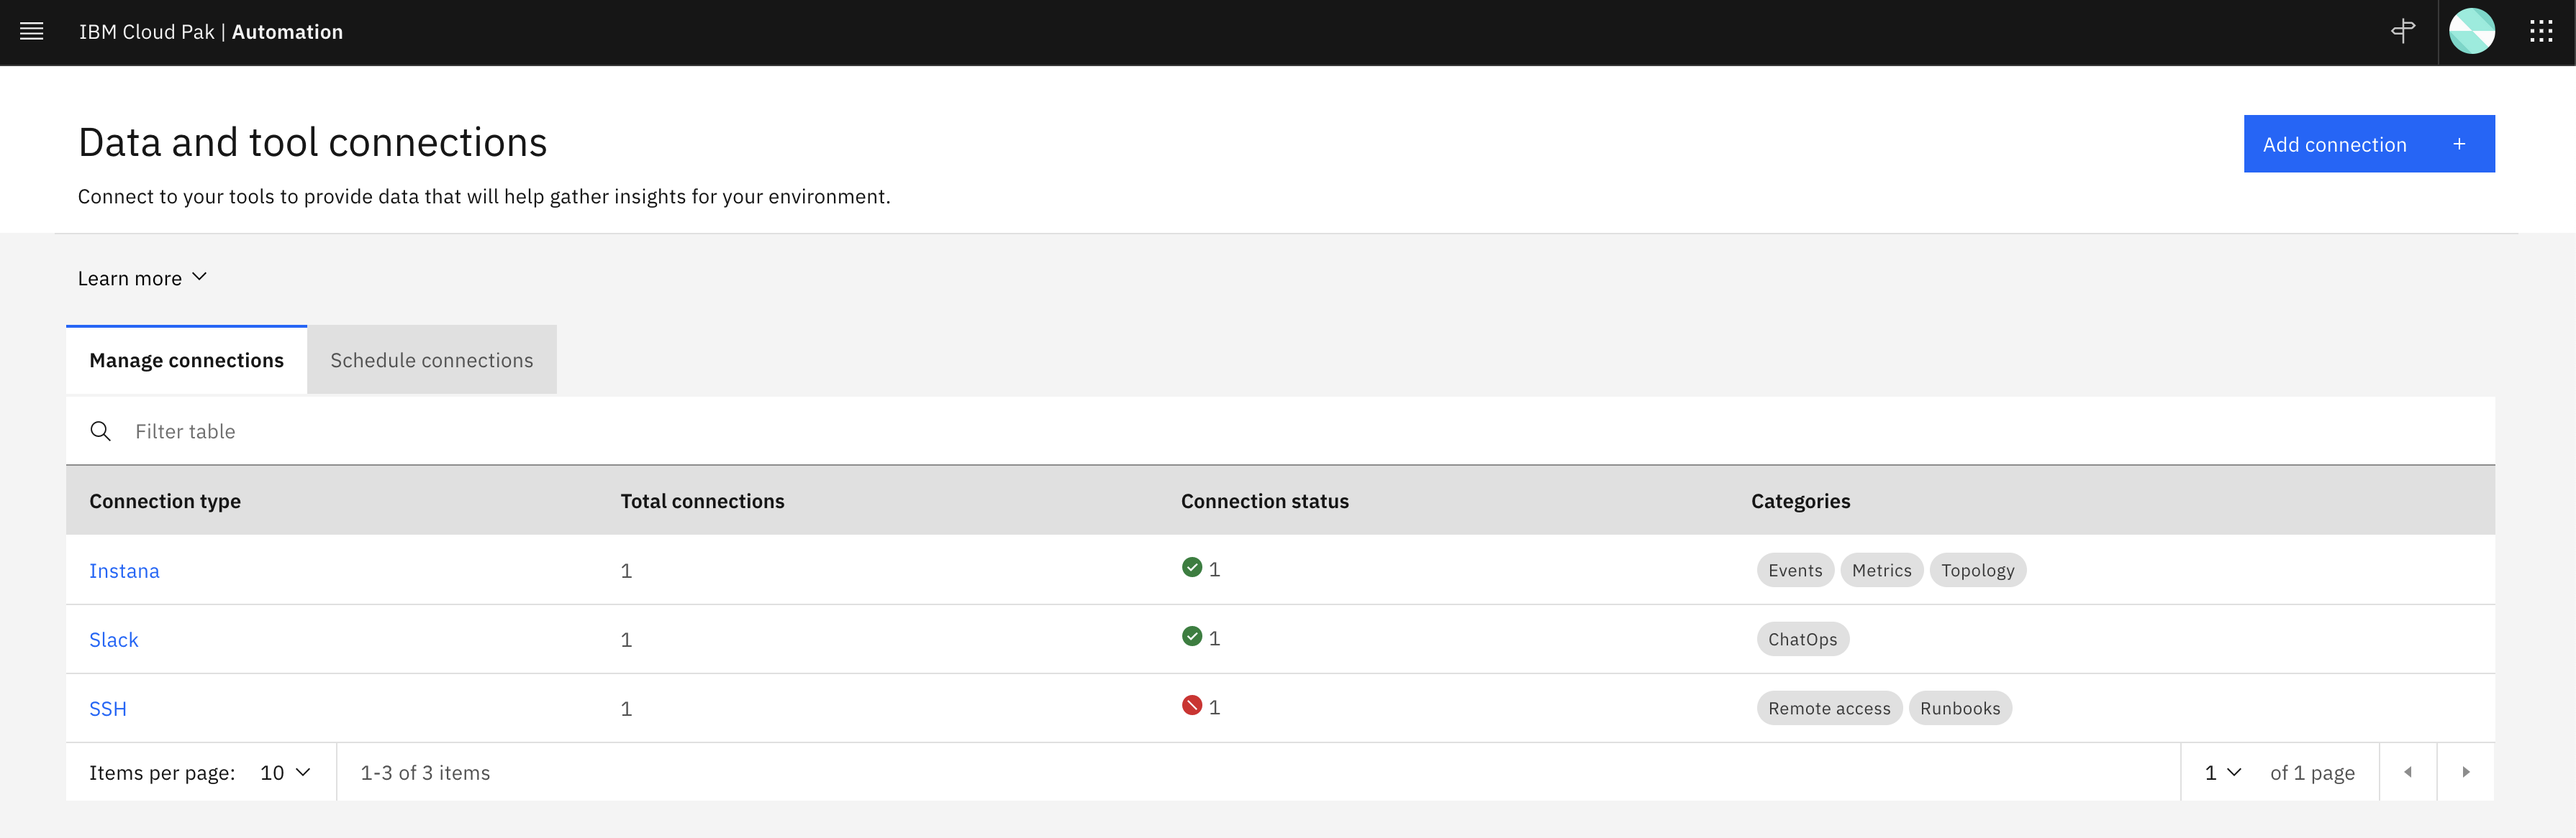
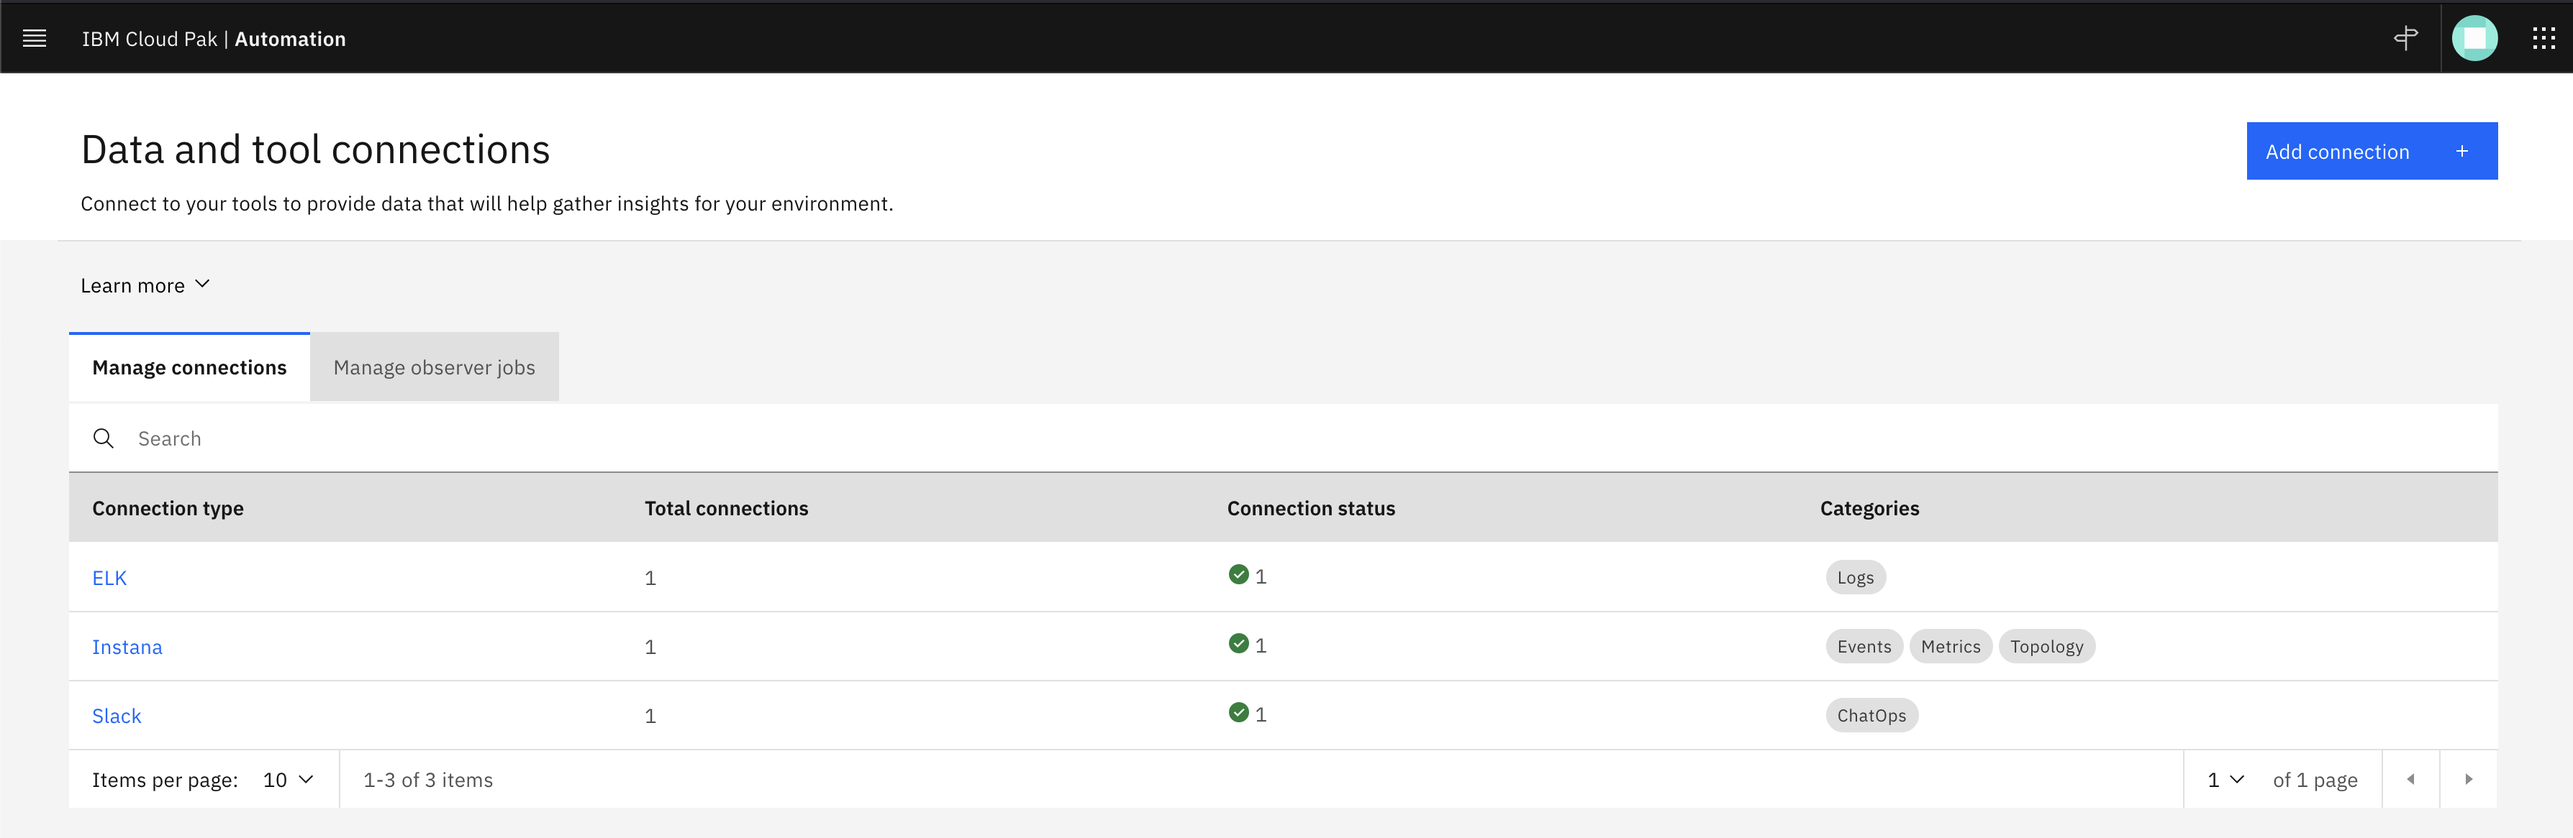
make cp4aiops section interactive

diff --git a/README.md b/README.md
@@ -16,7 +16,7 @@ Connection instructions with platform URLs and credentials are listed in the [ac
 
 2. In the browser, **navigate to your OpenShift console.** 
 
-    The OpenShift console typically begins with `https://console-openshift-console-`. You can find this in the [access file](/access.md). Reach out to your OpenShift administrator if you do not have this address.
+    The OpenShift console typically begins with `https://console-openshift-console-`. You can find this in the [access file](/access.md).
 
     You will now see the OpenShift console login page.
 
@@ -89,7 +89,7 @@ Instana is an enterprise observability solution that offers application performa
 
 ### Navigating the Instana Dashboard
 
-9. **In a web browser, navigate to your Instana server. Reach out to your Instana administrator if you do not have this address.**
+9. **In a web browser, navigate to your Instana server.** You can find this address in the [access file](access.md).
 
 10. **Log in with your Instana credentials.**
 
@@ -497,23 +497,23 @@ In this section, you have seen some of the capabilities of Turbonomic Applicatio
 
 ### Overview of IBM Cloud Pak for AIOps
 
-IBM Cloud Pak for AIOps is an AIOps platform that deploys advanced, explainable AI using your organization's data so that you can confidently **assess, diagnose, and resolve incidents** across mission-critical workloads and **proactively avoid incidents and accerlate your time to resolution**.
+IBM Cloud Pak for AIOps is a platform that deploys advanced, explainable AI using your organization's data so that you can confidently **assess, diagnose, and resolve incidents** across mission-critical workloads and **proactively avoid incidents and accerlate your time to resolution**.
 
-IBM Cloud Pak for AIOps helps you **uncover hidden insights from multiple sources of data**, such as logs, metrics, and events. The Cloud Pak **delivers those insights directly into the tools that your teams already use**, such as Slack or Microsoft Teams, in near real-time.
+IBM Cloud Pak for AIOps helps you **uncover hidden insights from multiple sources of data**, such as logs, metrics, and events. It then **delivers those insights directly into the tools that your teams already use**, such as Slack or Microsoft Teams, in near real-time.
 
 ### Exploring the CP4AIOps Console
 
-78. **Navigate to your IBM Cloud Pak for AIOps dashboard. If you do not have the address for this, reach out to your CP4AIOps administrator.**
+78. **Navigate to your IBM Cloud Pak for AIOps dashboard.** You can find this address in the [access file](./access.md).
 
     ![cp4waiops-login](images/cp4waiops-login.png)
 
-79. **In the dropdown for `Log in with`, make sure you have `OpenShift Authentication` selected, then select the `ldap-ats-wscdmz-wfwsldapcl01` option, and log in with your OpenShift credentials.** Do not select the `kube:admin` option.
+79. **In the dropdown for `Log in with`, make sure you have `OpenShift Authentication` selected, then select the `ldap-ats-wscdmz-wfwsldapcl01` option, and log in with your OpenShift credentials (i.e. `userNN`).** Do not select the `kube:admin` option.
 
     ![cp4waiops-homepage](images/cp4waiops-homepage.png)
 
     When you first open CP4AIOps, you are taken to the homepage that displays the most important information that you have access to. Depending on your credentials, different "widgets" will appear for you to see and act on.
 
-    The terms and concepts on this homepage may seem foreign at first, but they will become clear throughout the rest of this tutorial. A good place to start is on the AIOps Insights page where you can see a good overview of the CP4AIOps benefits.
+    The terms and concepts on this homepage may seem foreign at first, but they will become clear throughout the rest of this tutorial. A good place to start is on the AIOps Insights page where you can see an overview of the CP4AIOps benefits.
 
 #### AIOps Insights
 
@@ -529,14 +529,6 @@ IBM Cloud Pak for AIOps helps you **uncover hidden insights from multiple source
 
     In the image above, over 300,000 events were narrowed down to 10,000 alerts, which were further narrowed down to 431 incidents. These incidents are what IT Operations staff needs to evaluate and remediate either through manual processes, or by building automation for repeating incidents.
 
-    Some terminology:
-
-    - **Events** are a record containing structured data that summarizes key attributes of an occurrence on a managed entity, which might be a network resource, some part of that resource, or other key element associated with your network, services, or applications.
-
-    - **Alerts** represent an ongoing anomalous condition against a single managed entity. Unlike events, alerts might evolve over time as the condition changes. Alerts have a start and an end time. The creation and evolution of alerts are informed by events.
-
-    - **Incidents** represent the context around an issue that is currently severely impacting operations. An incident includes all alerts that are related to the issue and information about how the affected resources are related. The creation and evolution of incidents are informed by alerts.
-
     Next, you will take a look at where all of these events are coming from.
 
 #### Data and Tool Connections
@@ -545,7 +537,11 @@ IBM Cloud Pak for AIOps helps you **uncover hidden insights from multiple source
 
     ![data-tool-connections](images/data-tool-connections.png)
 
-    All the data, events, and metrics you see in CP4AIOps are coming from the Instana server you explored earlier in this tutorial. `Slack` and `SSH` are both connections where CP4AIOps sends information, notifications, and commands which will be discussed in a later section. 
+    - All the data, events, and metrics you see in CP4AIOps are coming from the Instana server you explored earlier in this tutorial. 
+    - Logs from select OpenShift applications are being forwarded to an [ELK server](https://www.elastic.co/elastic-stack) which is then ingested by CP4AIOps.
+    - Slack is used for ChatOps to notify operations teams about incidents and ongoing remediation work.
+
+    There are also two connections that you do not have visibility into - one for SSH connections, and one to an [Ansible Automation Platform](https://www.redhat.com/en/technologies/management/ansible) server. These are both used to take remediation actions against target environments.
 
 #### Resource Management
 
@@ -561,7 +557,7 @@ IBM Cloud Pak for AIOps helps you **uncover hidden insights from multiple source
 
     You now have a scoped view of just the resources associated with the Robot Shop Microservices Application - all of the Kubernetes objects such as pods, services, and routes, but also the individual application components within the containers such as `.jar` files and even the API calls made to each endpoint. 
 
-    You also might also see some *incidents* in this view if they are associate with the application. You will look more at these later on.
+    You also might also see some *incidents* in this view. You will look more at these later on.
 
 #### Automations
 
@@ -571,11 +567,11 @@ IBM Cloud Pak for AIOps helps you **uncover hidden insights from multiple source
 
     The automation tools - policies, runbooks, and actions - help you resolve incidents quickly by setting up and enabling an automatic response as situations arise.
 
-    **Policies** are rules that contain multiple condition and action sets. They can be triggered to automatically promote events to alerts, reduce noise by grouping alerts into an incident, and assign runbooks to remediate alerts.
+    **Policies** are rules that contain condition and action sets. They can be triggered to automatically promote events to alerts, reduce noise by grouping alerts into an incident, and assign runbooks to remediate alerts.
 
-86. **For example, find the Policy named "Disk Pressure", and click on it. In the new page that opens, click the "Specification" tab.**
+86. **For example, find the Policy named `Robot Shop Erroneous Calls`, and click it. In the new page that opens, click the "Specification" tab.**
 
-    This policy looks for alerts that match the tags `Value of:alert.summary` contains `KubeletHasDiskPressure`, or `Value of:alert.summary` contains `You will run out of disk space`. Alerts with either of these tags indicate that an OpenShift node is running out of ephemeral storage and will soon begin evicting pods.
+    This policy looks for alerts that match the tags `Value of:alert.summary` contains `Erroneous call rate is too high`. An alert matching this tag will be sent from Instana when Instana determines there has been a significant increase in the rate of erroneous calls to the Robot Shop application.
 
     The policy also states what should happen when the policy finds a matching alert. In this case, it will promote the alert to an incident that will notify specific users responsible for fixing the issue, or potentially automatically run a runbook made up of one or more actions that have been defined in CP4AIOps.
 
@@ -591,39 +587,97 @@ IBM Cloud Pak for AIOps helps you **uncover hidden insights from multiple source
 
     **Actions** in runbooks are the collection of manual steps grouped into a single automated entity. An action improves runbook efficiency by automatically performing procedures and operations.
 
-89. **For example, click the "Turn off payment erroneous calls" action and then click the "Content" tab of the new window that pops up.**
+89. **For example, click the `Fix load deployment environment variable` action and then click the "Content" tab of the new window that pops up.**
 
     ![policy-erroneous](images/policy-erroneous.png)
 
-    This action enables CP4AIOps to `ssh` to a target server and run the proper `oc` commands to solve the issue. This action takes advantage of the `SSH` Data connection that you saw in an [earlier section](#data-and-tool-connections).
+    This action enables CP4AIOps to `ssh` to a target server and run the proper `oc` commands to solve the issue.
 
-    There are other alternatives to `ssh` - HTTP API calls or Ansible automation playbooks, for example.
+    There are other alternatives to `ssh` - for example, HTTP API calls or Ansible automation playbooks which you will explore in a later section.
 
-    Runbooks and actions can be associated with incidents as well, so that whenever an incident is created that meets certain criteria, a runbook can automatically kick off problem remediation.
+    Runbooks and actions can be associated with incidents so that whenever an incident is created that meets certain criteria, a runbook can automatically kick off problem remediation.
 
 #### Incidents and Alerts
 
 1.  **In the left-side menu, navigate to "Incidents".**
 
-    ![stories](images/stories.png)
+    ![incident-new](TODO: update image)
 
     Depending on what alerts are triggered at the time you go through the tutorial, the current incidents will look different.
 
     Incidents are where the IT Operators and administrators should focus their attention to either manually close incidents as they are generated or build actions and runbooks in order to remediate incidents automatically as they appear. 
 
-2.  **If there is an incident created for "Erroneous call rate is too high", click it to open that specific incident. If it is not available at the time, you can select any other incident to see similar information.**
+2.  **Find the incident that begins with `userNN-project/nodejs-postgresql-example`, where `userNN` is your user number.**
 
-    ![erroneous-story](images/erroneous-story.png)
+    ***Please be careful to select your correct incident. There is nothing stopping you from accidentally selecting another user's incident and closing it in the coming steps.***
 
-    The erroneous calls error is the same issue that you looked it back in the [Instana section](#using-instana-to-identify-an-issue). Now you can see Instana and CP4AIOps integrating well together - Instana observability identified the error and its root cause, and CP4AIOps has generated an incident that can be used to remediate the problem in an automated way.
+    ![erroneous-story](images/incident-new.png) TODO: update image
 
     The incident contains many pieces of information that can be used to more quickly remediate issues.
 
-    - Probable cause alerts - CP4AIOps attempts to derives the root fault component, and the full scope of components that are affected by an incident.
-    - Topology - provides a view of the affected components so IT Operators can see the incident in context.
-    - Assignees - you can either manually assign incidents to team members to resolve, or CP4AIOps can assign people or teams automatically if a policy is configured to do so.
-    - Recommended runbooks - if CP4AIOps correlates the incident with others from the past that were resolved with certain playbooks, they will be recommended.
-  
+    - *Probable cause alerts* - CP4AIOps attempts to derive the root fault component, and the full scope of components that are affected by an incident
+    - *Topology* - provides a view of the affected components so IT Operators can see the incident in context
+    - *Assignees* - you can either manually assign incidents to team members to resolve, or CP4AIOps can assign people or teams automatically if a policy is configured to do so
+    - *Impacted Applications* - any business applications that CP4AIOps identifies as impacted by the incident
+    - *Recommended runbooks* - if CP4AIOps correlates the incident with others from the past that were resolved with certain playbooks, they will be recommended
+
+3. There seems to be a problem with the NodeJS and Postgresql application running in your `userNN-project` OpenShift project. **Navigate to the OpenShift console in the developer perspective and try to access the frontend application with the small hyperlink button on the NodeJS icon.**
+
+    ![app-broken](images/app-broken.png)
+
+    You should receive an error page similar to the following:
+
+    ![app-broken2](images/app-broken2.png)
+
+    Cloud Pak for AIOps has identified this error as an *incident*, and has provided a runbook to fix it.
+
+4. Back in the CP4AIOps incident page in the bottom-left, click the three dots associated with the `Fix userNN postgresql (ssh)` runbook, then select `Run`.
+
+    If the runbook is not present, select a Probable Cause Alert that has the `Runbooks` tag on its tile.
+
+    ![runbook-new](images/runbook-new.png) TODO: update image
+
+    This *runbook* is made up of three separate *actions*. These actions are a mix of bash commands issued through an SSH connection and an Ansible Playbook driven from an Ansible Automation Platform server which is running on IBM LinuxONE.
+
+    - First, the runbook will fix the issue using an Ansible playbook. The remediation for this error is to edit one of the Postgresql deployment's environment variables to the correct database name.
+    - Second, it will log into the OpenShift cluster.
+    - Third, it will check that the environment variable is set properly.
+
+5. Start the runbook by entering the variables for your `user`, `openshift username`, `openshift password`, and `openshift project`.
+
+    - user: `userNN` (where `NN` is your user number)
+    - openshift username: `userNN` (where `NN` is your user number, same as `user`)
+    - openshift password: your OpenShift password found in the [access.md](access.md) file
+    - openshift project: `userNN-project`
+
+6. **After populating the variables, click *Start Runbook* at the bottom of the page.**
+
+    You can now click the smaller *Run* buttons to manually run each step in the runbook.
+
+7. **Click through each step in the runbook**, waiting for each step to show as **completed** before moving on.
+
+    ![runbook-complete](images/runbook-complete.png) TODO: update image
+
+    If the output of step 3 includes the return `POSTGRESQL_DATABASE=my_data`, the application issue should be fixed.
+
+    If you'd like, you can give the runbook a 1-5 star rating, leave a comment, and mark that it worked. This will provide feedback to the automation engineers and AI algorithms so that runbooks can continue to improve.
+
+8. **In the OpenShift console, navigate back to your `userNN-project` in the developer view. Access your frontend application by clicking the hyperlink button attached to the NodeJS application.**
+   
+    ![app-working](images/app-working.png)
+
+    Because the NodeJS application can now reach the Postgresql database, the application is accessible and you can enter fruit quantities into the inventory database using the webpage.
+
+    ![app-working2](images/app-working2.png)
+
+    As you interact with the application, you will be able to see the resulting calls and traces in the `userNN-project` Instana application perspective. You should also see that 200 status calls 
+
+    ![instana-working](images/instana-working.png)
+
+    ![instana-working2](images/instana-working2.png)
+
+    You can either manually mark your incident as *resolved*, or you can let CP4AIOps identify that the error has been fixed and it will close the incident automatically.
+
 #### ChatOps
 
 Earlier in the tutorial, you saw that Slack is configured as a ChatOps endpoint for this CP4AIOps instance. 
@@ -659,6 +713,8 @@ Throughout this tutorial, you may have been asking yourself, "Where's the AI in 
 ## Wrapping Up
 
 In this demonstration, you have seen some of the capabilities of IBM's AIOps portfolio and how it can observe and manage IBM Z applications and infrastructure.
+
+With Instana, Turbonomic, and IBM Cloud Pak for AIOps, you can keep your applications up and running, meeting your SLAs, and when incidents do arise, you can remediate them quickly and get back to focusing on other projects.
 
 We encourage you to look through the references below and reach out to this [tutorial author](mailto:matt.mondics@ibm.com) if you would like to see or learn more.
 
